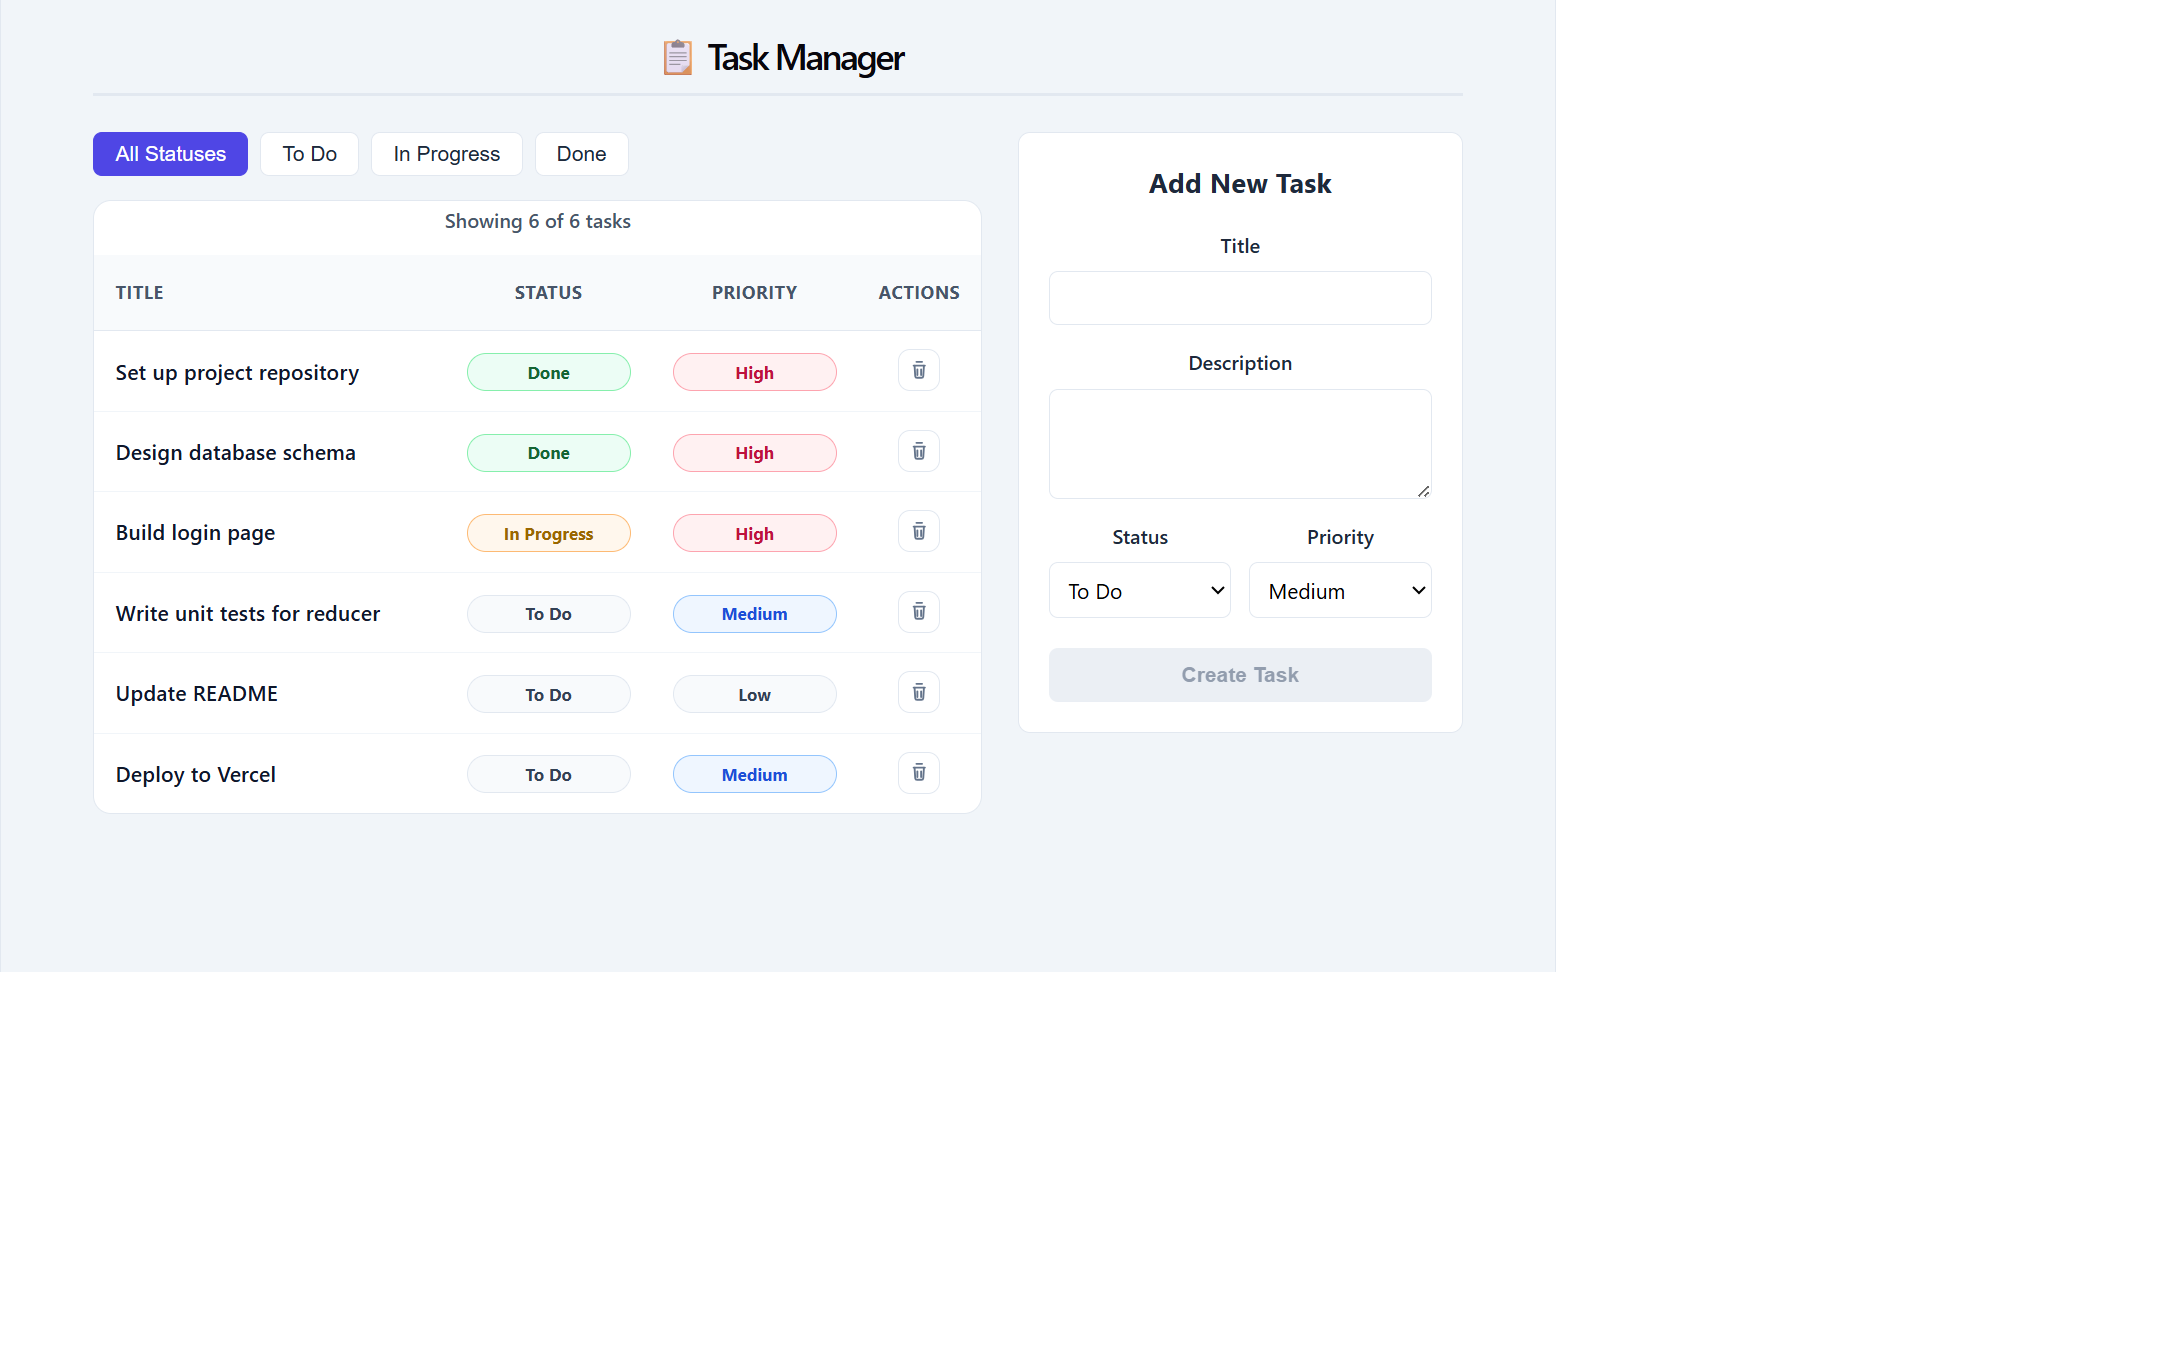
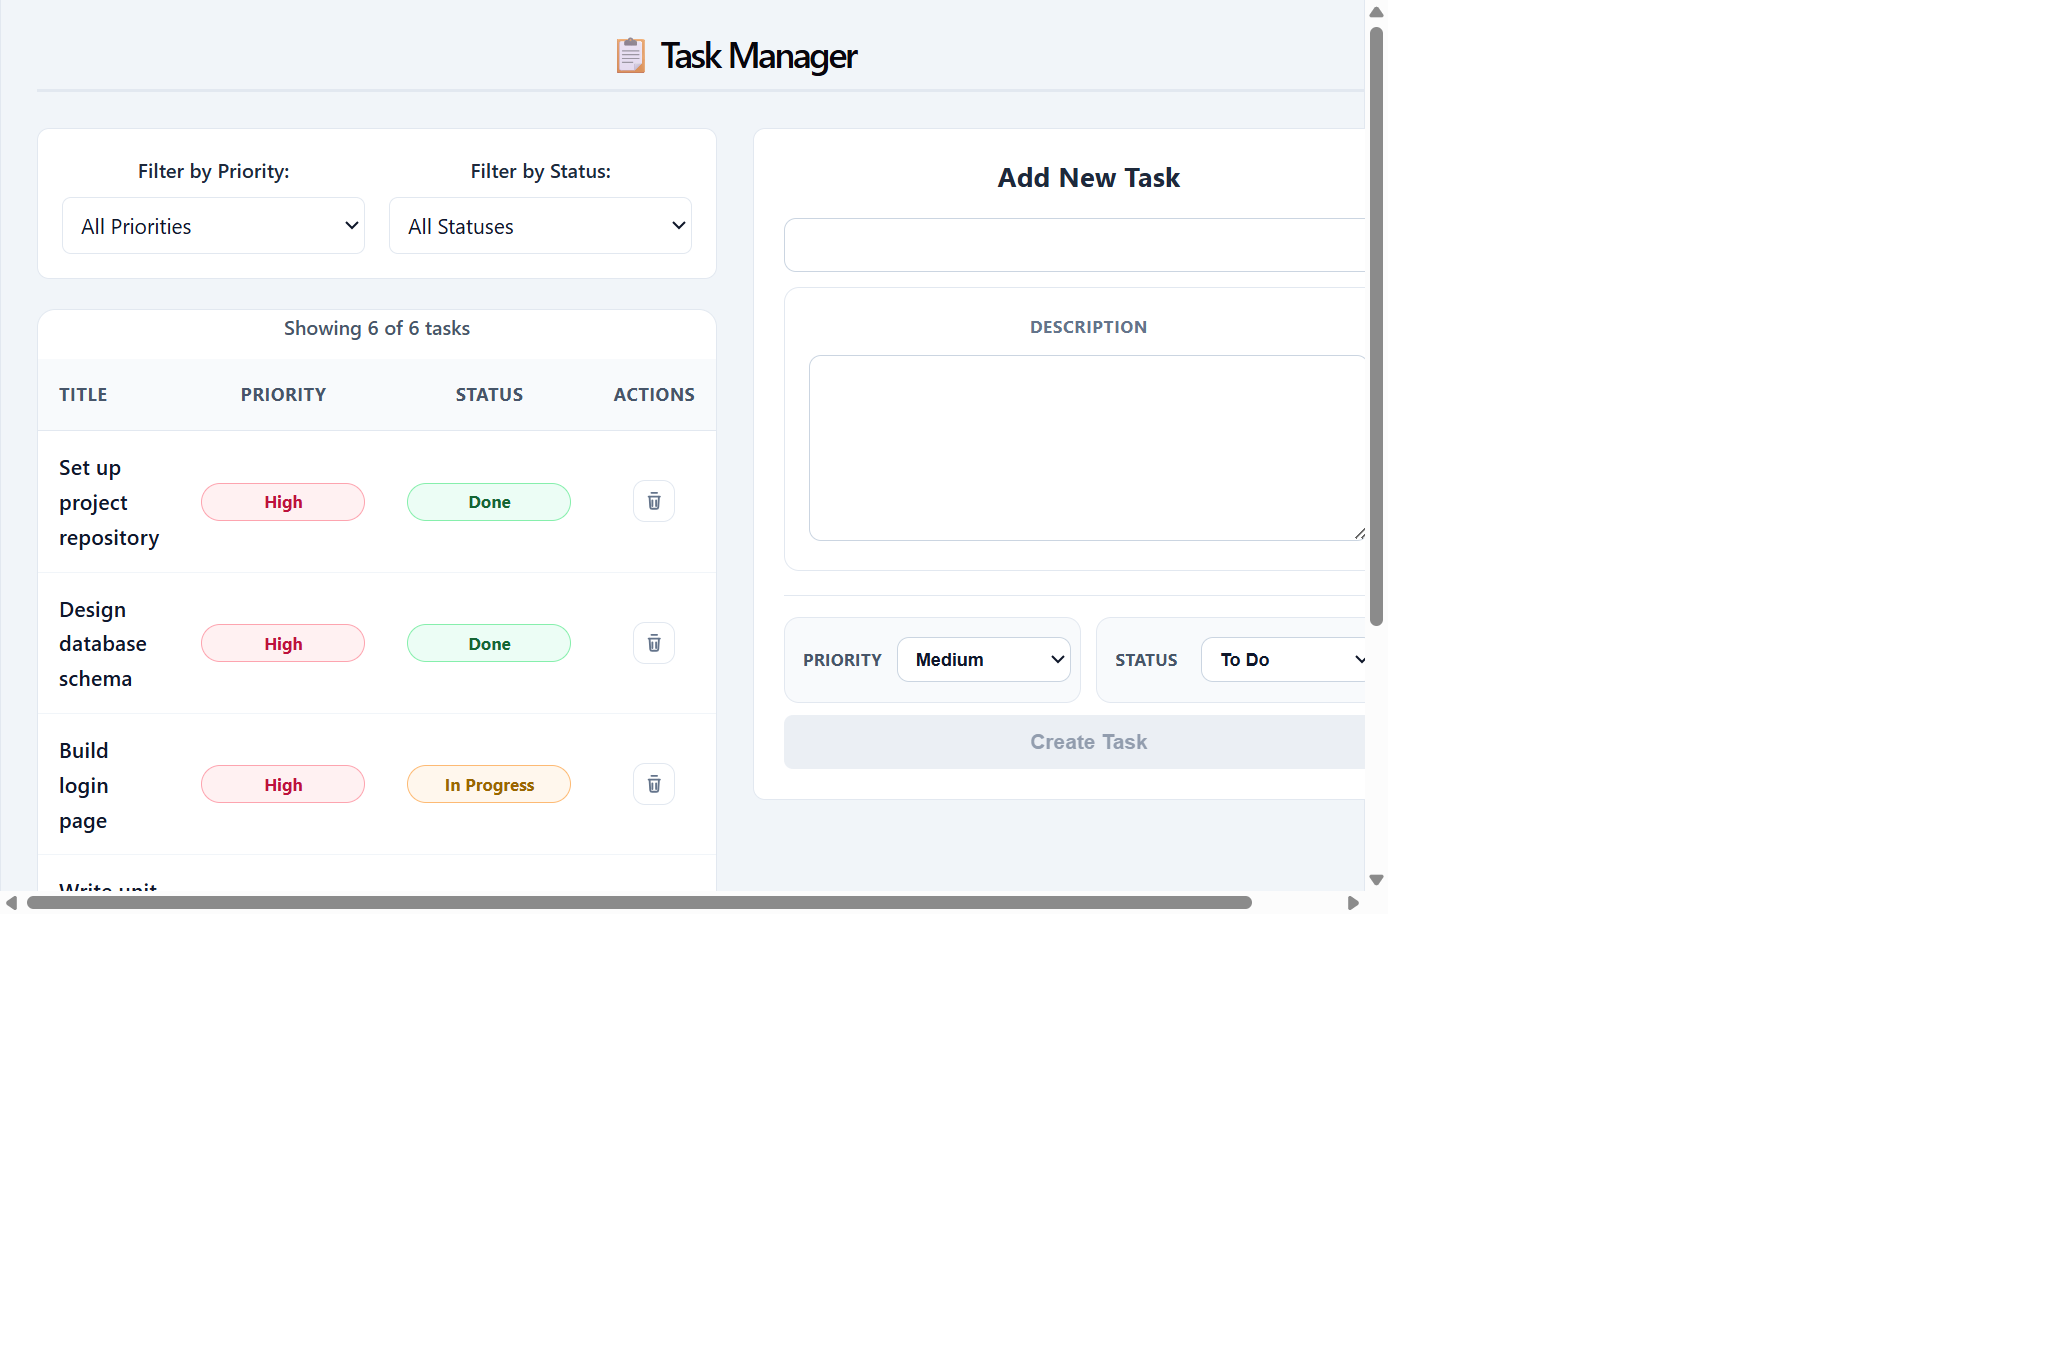
Refactored TaskRow, TaskList and taskReducer to enable the drag-and-drop reordering feature

diff --git a/src/components/TaskRow.jsx b/src/components/TaskRow.jsx
@@ -1,12 +1,105 @@
+import { useRef, useState } from "react";
 import { Link } from "react-router-dom";
+
+import { useTask } from "../contexts/TaskContextInstance";
 
 import PropTypes from "prop-types";
 
 import styles from "./TaskRow.module.css";
 
-function TaskRow({ task, statusLabel, priorityLabel, onDelete }) {
+function TaskRow({ task, index, statusLabel, priorityLabel, onDelete }) {
+  const { tasks, reorderTasks } = useTask();
+  const [isDraggingOver, setIsDraggingOver] = useState(false);
+
+  // Ref to track the depth of nested drag enter/leave events to prevent flickering of hover state
+  const dragDepthRef = useRef(0);
+
+  // Handle the drag start event to initiate dragging of a task
+  const handleDragStart = (e) => {
+    // console.log(`Dragging task: ${task.title} (ID: ${task.id})`);
+    // Set the dragged task's id in the dataTransfer object to identify it during the drop event
+    e.dataTransfer.setData("text/plain", task.id);
+  };
+
+  // Handle the drag over event to allow dropping on a task
+  const handleDragOver = (e) => {
+    //console.log(`Dragging over task: ${task.title} (ID: ${task.id})`);
+    e.preventDefault(); // Necessary to allow dropping
+  };
+
+  // Track nested enter/leave events so hover state does not flicker across row children
+  const handleDragEnter = (e) => {
+    console.log(
+      `Entering task: ${task.title} (ID: ${task.id}) (Depth: ${dragDepthRef.current})`,
+    );
+    e.preventDefault();
+    // Increment the drag depth counter when entering a task row
+    dragDepthRef.current += 1;
+    // Set the dragging state to true only when entering the first level of the task row
+    if (dragDepthRef.current === 1) {
+      setIsDraggingOver(true);
+    }
+  };
+
+  // Handle the drag leave event to reset the dragging state when leaving a task row
+  const handleDragLeave = () => {
+    console.log(
+      `Leaving task: ${task.title} (ID: ${task.id}) (Depth: ${dragDepthRef.current})`,
+    );
+    // Decrement the drag depth counter when leaving a task row
+    dragDepthRef.current = Math.max(0, dragDepthRef.current - 1);
+    // Reset the dragging state only when leaving the last level of the task row
+    if (dragDepthRef.current === 0) {
+      setIsDraggingOver(false);
+    }
+  };
+
+  // Handle the drop event to reorder tasks
+  const handleDrop = (e) => {
+    // console.log(`Dropped on task: ${task.title} (ID: ${task.id})`);
+    // Prevent default behavior to allow drop
+    e.preventDefault();
+    dragDepthRef.current = 0;
+    setIsDraggingOver(false);
+
+    // Get the id of the dragged task from the dataTransfer object
+    const draggedId =
+      Number(e.dataTransfer.getData("text/plain")) ||
+      e.dataTransfer.getData("text/plain");
+    // If the dragged task is dropped on itself, do nothing
+    if (draggedId === task.id) return;
+
+    // Find the index of the dragged task in the tasks array
+    const draggedIndex = tasks.findIndex((t) => t.id === draggedId);
+    // If the dragged task is not found, do nothing
+    if (draggedIndex === -1) return;
+
+    const updatedTasks = [...tasks];
+    // Remove the dragged task from its original position and insert it at the new index
+    const [movedTask] = updatedTasks.splice(draggedIndex, 1);
+    // Insert the dragged task at the index of the task it was dropped on
+    updatedTasks.splice(index, 0, movedTask);
+
+    reorderTasks(updatedTasks);
+  };
+
+  const handleDragEnd = () => {
+    dragDepthRef.current = 0;
+    setIsDraggingOver(false);
+  };
+
   return (
-    <tr>
+    // Use a table row to represent each task, making it draggable for reordering
+    <tr
+      draggable
+      onDragStart={handleDragStart}
+      onDragEnter={handleDragEnter}
+      onDragOver={handleDragOver}
+      onDragLeave={handleDragLeave}
+      onDrop={handleDrop}
+      onDragEnd={handleDragEnd}
+      className={`${styles.taskRow} ${isDraggingOver ? styles.dragOver : ""}`}
+    >
       <td className={styles.titleCell}>
         <Link to={`/tasks/${task.id}`} className={styles.titleLink}>
           {task.title}
@@ -58,6 +151,7 @@ TaskRow.propTypes = {
     status: PropTypes.string.isRequired,
     priority: PropTypes.string.isRequired,
   }).isRequired,
+  index: PropTypes.number.isRequired,
   statusLabel: PropTypes.string.isRequired,
   priorityLabel: PropTypes.string.isRequired,
   onDelete: PropTypes.func.isRequired,

diff --git a/src/components/TaskList.jsx b/src/components/TaskList.jsx
@@ -29,7 +29,7 @@ function TaskList() {
           </tr>
         </thead>
         <tbody>
-          {filteredTasks.map((task) => {
+          {filteredTasks.map((task, index) => {
             const statusLabel = getStatusLabel(task.status);
             const priorityLabel = getPriorityLabel(task.priority);
 
@@ -37,6 +37,7 @@ function TaskList() {
               <TaskRow
                 key={task.id}
                 task={task}
+                index={index}
                 statusLabel={statusLabel}
                 priorityLabel={priorityLabel}
                 onDelete={deleteTask}

diff --git a/src/contexts/TaskContext.jsx b/src/contexts/TaskContext.jsx
@@ -29,6 +29,9 @@ export function TaskProvider({ children }) {
 
   const deleteTask = (id) => dispatch({ type: "DELETE_TASK", payload: id });
 
+  const reorderTasks = (newTasks) =>
+    dispatch({ type: "REORDER_TASKS", payload: newTasks });
+
   const setStatusFilter = (filterValue) =>
     dispatch({ type: "SET_STATUS_FILTER", payload: filterValue });
 
@@ -62,6 +65,7 @@ export function TaskProvider({ children }) {
         addTask,
         updateTask,
         deleteTask,
+        reorderTasks,
 
         setStatusFilter,
         setPriorityFilter,

diff --git a/src/components/TaskRow.module.css b/src/components/TaskRow.module.css
@@ -107,3 +107,17 @@
     font-size: 10px;
   }
 }
+
+.taskRow {
+  cursor: grab;
+  transition: background-color 0.2s ease;
+}
+
+.taskRow:active {
+  cursor: grabbing;
+}
+
+.dragOver {
+  background-color: #eff6ff !important;
+  outline: 2px dashed var(--primary, #3b82f6);
+}

diff --git a/src/reducers/taskReducer.js b/src/reducers/taskReducer.js
@@ -57,6 +57,11 @@ export function taskReducer(state, action) {
         ...state,
         priorityFilter: action.payload,
       };
+    case "REORDER_TASKS":
+      return {
+        ...state,
+        tasks: action.payload,
+      };
     default:
       return state;
   }

diff --git a/README.md b/README.md
@@ -41,6 +41,75 @@ Main features shown: status filters, task table (Title/Status/Priority), delete 
 
 ![Task Manager main features](public/screenshots/main-features.png)
 
+## Architecture Diagrams
+
+### 1) React Component Design Diagram
+
+```mermaid
+flowchart TD
+  A[main.jsx] --> B[App]
+  B --> C[TaskProvider]
+  C --> D[BrowserRouter]
+  D --> E[Header]
+  D --> F[Routes]
+
+  F -->|/tasks| G[TaskListPage]
+  F -->|/tasks/:id| H[TaskDetailPage]
+  F -->|*| I[Navigate to /tasks]
+
+  G --> J[TaskFilters]
+  G --> K[TaskList]
+  G --> L[AddTaskForm]
+  L --> M[TaskForm mode=create]
+
+  K --> N[TaskRow x N]
+
+  H -->|isEditing=false| O[Task Detail View]
+  H -->|isEditing=true| P[TaskForm mode=edit]
+
+  J -. useTask .-> C
+  K -. useTask .-> C
+  N -. useTask .-> C
+  L -. useTask .-> C
+  H -. useTask .-> C
+```
+
+### 2) State and Data Flow Diagram
+
+```mermaid
+flowchart LR
+  A[TaskProvider] --> B[useReducer taskReducer]
+  B --> C[state: tasks, statusFilter, priorityFilter]
+  C --> A
+
+  D[initState lazy initializer] --> B
+  D --> E[localStorage read]
+
+  A --> F[addTask]
+  A --> G[updateTask]
+  A --> H[deleteTask]
+  A --> I[reorderTasks]
+  A --> J[setStatusFilter]
+  A --> K[setPriorityFilter]
+  A --> L[resetFilters]
+
+  F --> B
+  G --> B
+  H --> B
+  I --> B
+  J --> B
+  K --> B
+  L --> B
+
+  C --> M[filteredTasks computed in provider]
+  M --> N[TaskList and TaskFilters UI]
+
+  C --> O[useEffect persist tasks]
+  O --> P[localStorage write]
+
+  Q[TaskRow drag-and-drop] --> I
+```
+
 ## Bonus Challenges Completed
 
 ### Easy
@@ -66,8 +135,12 @@ Main features shown: status filters, task table (Title/Status/Priority), delete 
 
 - [x] Add drag-and-drop reordering of tasks in the list using only browser drag events (no library)
 
+  Implemented a drag-depth counter pattern on the task row `<tr>` to prevent flicker casued by the highlight state toggling. As the cursor crosses child element boundaries, the browser recalculates drag targets. This produces parent-level enter/leave churn even while the cursor appears to be “inside the same row”. The visual highlight state depends on the boolean `isDraggingOver`. These enter/leave churn flips the boolean many times per second, causing the recalculate/repaint of the element style, resulting in the flicker.
+
+  The drag-depth counter solves this by only clearing highlight when the cursor truly exits the whole row (drag depth returns to 0).
+
 - [x] Add a priority filter on top of the status filter, so both can be active at the same time
 
-  The previous `status` filter and new `priority` filter have been combined into a single `TaskFilter` component
+  The previous `status` filter and new `priority` filter have been combined into a single `TaskFilters` component
 
   Added a clear all filters button to remove both `status` and `priority` filters
